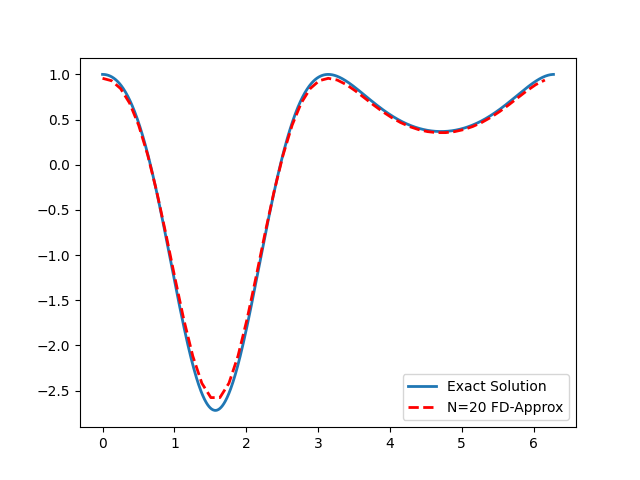
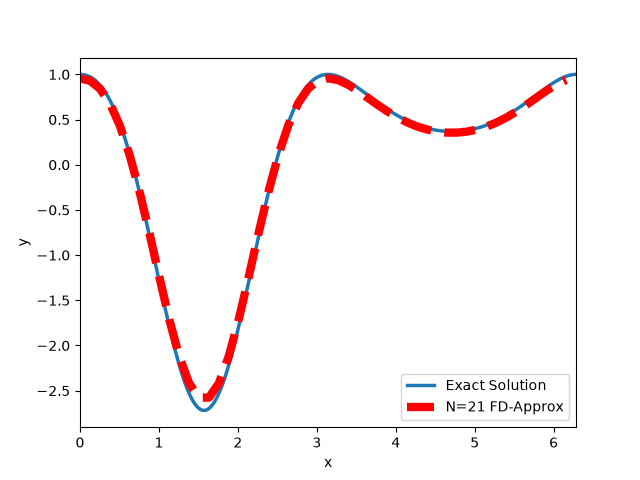
Fixed up the plots

diff --git a/Scripts/problem_0_4.py b/Scripts/problem_0_4.py
@@ -1,5 +1,6 @@
 import numpy as np
 import matplotlib.pyplot as plt
+from matplotlib.ticker import MultipleLocator
 import scipy.sparse as sp
 import sys
 
@@ -118,31 +119,30 @@ def main():
 
     # Get the exact solution
     u_exact = u(xx,yy)
-
-    fig1 = plt.figure(1)
-    ax1 = plt.axes(projection='3d')
-    ax1.plot_surface(xx,yy,u_approx,cmap=colormap)
-    ax1.set_xlabel("x")
-    ax1.set_ylabel("y")
-    ax1.set_title("Numerical Solution")
-    plt.savefig("Images\\problem4_1.png")
-
-    fig2 = plt.figure(2)
-    ax2 = plt.axes(projection='3d')
-    ax2.plot_surface(xx,yy,u_exact,cmap=colormap)
-    ax2.set_xlabel("x")
-    ax2.set_ylabel("y")
-    ax2.set_title("Exact Solution")
-    plt.savefig("Images\\problem4_2.png")
+    fig1, ax1 = plt.subplots(nrows=1, ncols=2, constrained_layout=True)
+    vmin = min(u_exact.min(), u_approx.min())
+    vmax = max(u_exact.max(), u_approx.max())
+    im0 = ax1[0].pcolormesh(xx, yy, u_exact, cmap=colormap, vmin=vmin, vmax=vmax)
+    im1 = ax1[1].pcolormesh(xx, yy, u_approx, cmap=colormap, vmin=vmin, vmax=vmax)
+    ax1[0].set_title('Exact Solution')
+    ax1[1].set_title('Approx. Solution')
+    for ax in ax1:
+        ax.set_aspect('equal')
+        ax.set_xlabel("x")
+        ax.set_ylabel("y")
+        ax.xaxis.set_major_locator(MultipleLocator(1))
+    fig1.colorbar(im0, ax=ax1, orientation='vertical', fraction=0.046, pad=0.04,  shrink=0.6)
+    plt.savefig("Images\\problem4_1.png", bbox_inches='tight')
 
     # Plot the error for trouble shooting
-    erplt = plt.figure(5)
-    erax = plt.axes(projection='3d')
-    erax.plot_surface(xx,yy,np.abs(u_approx-u_exact),cmap=colormap)
-    erax.set_xlabel("x")
-    erax.set_ylabel("y")
-    erax.set_title("absolute error")
-    plt.savefig("Images\\problem4_error.png")
+    fig2 = plt.figure(2)
+    ax2 = plt.axes()
+    im2 = plt.pcolormesh(xx,yy,np.abs(u_approx-u_exact),cmap=colormap)
+    ax2.set_xlabel("x")
+    ax2.set_ylabel("y")
+    ax2.set_title("absolute error")
+    fig2.colorbar(im2, ax=ax2, orientation='vertical', fraction=0.046, pad=0.04)
+    plt.savefig("Images\\problem4_2.png")
 
     num_trials = 8
     meshes = np.floor(np.logspace(1, 3, num_trials)).astype(int)
@@ -154,12 +154,15 @@ def main():
 
     fig3 = plt.figure(3)
     ax3 = plt.axes()
+    plt.rcParams['lines.linewidth'] = 3 
 #   plt.plot(meshes, L_2, label = "L_2")
     plt.loglog(meshes, L_2, label = "L_2")
-    plt.loglog(meshes, L_inf, label = "L_inf")
+#   plt.loglog(meshes, L_inf, label = "L_inf")
 #   ax3.set_xscale('log')
 #   ax3.set_yscale('log')
     plt.legend()
+    ax3.set_xlabel("Number of FD Nodes")
+    ax3.set_ylabel("Relative Error")
     plt.savefig('Images\\problem4_3.png')
 
     xx,yy,u_neumann = finiteDifferencePoisson(a, b, n, bc="neumann") # the condition number of A is 1.174812990360801e+17 for one n=40
@@ -170,7 +173,8 @@ def main():
     ax4.set_xlabel("x")
     ax4.set_ylabel("y")
     ax4.set_title("Neummann Numerical Solution")
-    plt.savefig("Images\\problem4_4.png")
+    fig4.subplots_adjust(left=0, right=1, bottom=0, top=1)
+    plt.savefig("Images\\problem4_4.png", bbox_inches='tight')
 
 if __name__ == "__main__":
     main()

diff --git a/Scripts/problem_0_1.py b/Scripts/problem_0_1.py
@@ -1,5 +1,7 @@
 import numpy as np
 import matplotlib.pyplot as plt
+from matplotlib.ticker import MultipleLocator, FuncFormatter
+from fractions import Fraction
 
 def f(x): # the function you want to analyze
     return np.exp(np.sin(x))
@@ -31,30 +33,56 @@ def rel_error(a, b, n):
     L_inf_error = np.linalg.norm(df_exact-df_approx,ord=np.inf)/np.linalg.norm(df_exact,ord=np.inf)
     return L_2_error, L_inf_error
 
+def pi_formatter(val, pos):
+    # Written by Sonnet
+    frac = Fraction(val / np.pi).limit_denominator(10)
+    if frac.numerator == 0:
+        return "0"
+    if frac.denominator == 1:
+        n = frac.numerator
+        return r"$\pi$" if n == 1 else r"$-\pi$" if n == -1 else rf"${n}\pi$"
+    num, den = frac.numerator, frac.denominator
+    if num == 1:
+        return rf"$\pi/{den}$"
+    if num == -1:
+        return rf"$-\pi/{den}$"
+    return rf"${num}\pi/{den}$"
+
 def main():
     # Part 1
-    x_exact = np.linspace(0, 2*np.pi, 1001)
+    a = 0
+    b = 2*np.pi
+    x_exact = np.linspace(a, b, 1001)
     df_exact = df(x_exact) # Calculate the analytical solution
-    x_approx, df_approx = finiteDiff12(0,2*np.pi, 21) # approximate using FD + 21 nodes
+    x_approx, df_approx = finiteDiff12(a, b, 21) # approximate using FD + 21 nodes
 
-    plt.rcParams['lines.linewidth'] = 2 # set a wider line width for all plots in this script
+    plt.rcParams['lines.linewidth'] = 2.5 # set a wider line width for all plots in this script
+    ax = plt.axes()
     plt.figure(1)
     plt.plot(x_exact, df_exact, label = "Exact Solution")
-    plt.plot(x_approx, df_approx, 'r--', label = "N=21 FD-Approx")
+    plt.plot(x_approx, df_approx, 'r--', linewidth = 6, label = "N=21 FD-Approx")
+    ax.set_xlabel("x")
+    ax.set_ylabel("y")
+    ax.xaxis.set_major_locator(MultipleLocator(np.pi/2))
+    ax.xaxis.set_major_formatter(FuncFormatter(pi_formatter))
+    ax.set_xlim(a, b)
     plt.legend()
     plt.savefig('Images\\problem1_1.png')
 
     # Part 2
     num_trials = 16
-    meshes = np.floor(np.logspace(1, 6, num_trials)).astype(int)
+    meshes = np.floor(np.logspace(1, 4, num_trials)).astype(int)
     L_2 = np.zeros(num_trials)
     L_inf = np.zeros(num_trials)
     for i in range(num_trials):
         L_2[i], L_inf[i] = rel_error(0, 2*np.pi, meshes[i])
 
     plt.figure(2)
+    ax = plt.axes()
+    ax.set_xlabel("Number of FD Nodes")
+    ax.set_ylabel("Relative Error")
     plt.loglog(meshes, L_2, label = "L_2")
-    plt.loglog(meshes, L_inf, label = "L_inf")
+    plt.loglog(meshes, L_inf, 'r--', linewidth = 6, label = "L_inf")
     plt.legend()
     plt.savefig('Images\\problem1_2.png')
 

diff --git a/Scripts/problem_0_2.py b/Scripts/problem_0_2.py
@@ -31,31 +31,39 @@ def rel_error(a, b, n):
 
 def main():
     # Part 1
-    x_exact = np.linspace(0, 2*np.pi, 1000, endpoint = False)
+    a = 0
+    b = 2*np.pi
+    x_exact = np.linspace(a, b, 1000, endpoint = False)
     d2f_exact = d2f(x_exact) # Calculate the analytical solution
     x_approx, d2f_approx = finiteDiff(0, 2*np.pi, 50) # approximate using FD + 21 nodes
 
-    plt.rcParams['lines.linewidth'] = 2 # set a wider line width for all plots in this script
+    plt.rcParams['lines.linewidth'] = 2.5 # set a wider line width for all plots in this script
+    ax = plt.axes()
     plt.figure(1)
     plt.plot(x_exact, d2f_exact, label = "Exact Solution")
-    plt.plot(x_approx, d2f_approx, 'r--', label = "N=20 FD-Approx")
+    plt.plot(x_approx, d2f_approx, 'r--', linewidth = 6, label = "N=21 FD-Approx")
+    ax.set_xlabel("x")
+    ax.set_ylabel("y")
+    ax.set_xlim(a, b)
     plt.legend()
     plt.savefig('Images\\problem2_1.png')
 
     # Part 2
     num_trials = 16
-    meshes = np.floor(np.logspace(1, 7, num_trials)).astype(int)
+    meshes = np.floor(np.logspace(1, 4, num_trials)).astype(int)
     L_2 = np.zeros(num_trials)
     L_inf = np.zeros(num_trials)
     for i in range(num_trials):
         L_2[i], L_inf[i] = rel_error(0, 2*np.pi, meshes[i]) #calculate relative errors for increasingly finer meshes.
 
     plt.figure(2)
+    ax = plt.axes()
+    ax.set_xlabel("Number of FD Nodes")
+    ax.set_ylabel("Relative Error")
     plt.loglog(meshes, L_2, label = "L_2")
-    plt.loglog(meshes, L_inf, label = "L_inf")
+#    plt.loglog(meshes, L_inf, 'r--', linewidth = 6, label = "L_inf")
     plt.legend()
     plt.savefig('Images\\problem2_2.png')
-
     return 0
 
 if __name__ == "__main__":

diff --git a/Scripts/problem_0_3.py b/Scripts/problem_0_3.py
@@ -43,8 +43,12 @@ def main():
 
     plt.rcParams['lines.linewidth'] = 3 # set a wider line width for all plots in this script
     plt.figure(1)
+    ax = plt.axes()
+    ax.set_xlim(a, b)
+    ax.set_xlabel("x")
+    ax.set_ylabel("y")
     plt.plot(x, u_exact, label = "Exact")
-    plt.plot(x, u_approx,'r--', label = "FD-Approx")
+    plt.plot(x, u_approx,'r--', label = "FD-Approx", linewidth=6)
     plt.legend()
     plt.savefig("Images\\problem3_1.png")
 
@@ -57,8 +61,11 @@ def main():
         L_2[i], L_inf[i] = rel_error(a, b, meshes[i]) #calculate relative errors for increasingly finer meshes.
 
     plt.figure(2)
+    ax = plt.axes()
+    ax.set_xlabel("Number of FD Nodes")
+    ax.set_ylabel("Relative Error")
     plt.loglog(meshes, L_2, label = "L_2")
-    plt.loglog(meshes, L_inf, label = "L_inf")
+    #plt.loglog(meshes, L_inf, label = "L_inf")
     plt.legend()
     plt.savefig('Images\\problem3_2.png')
 
